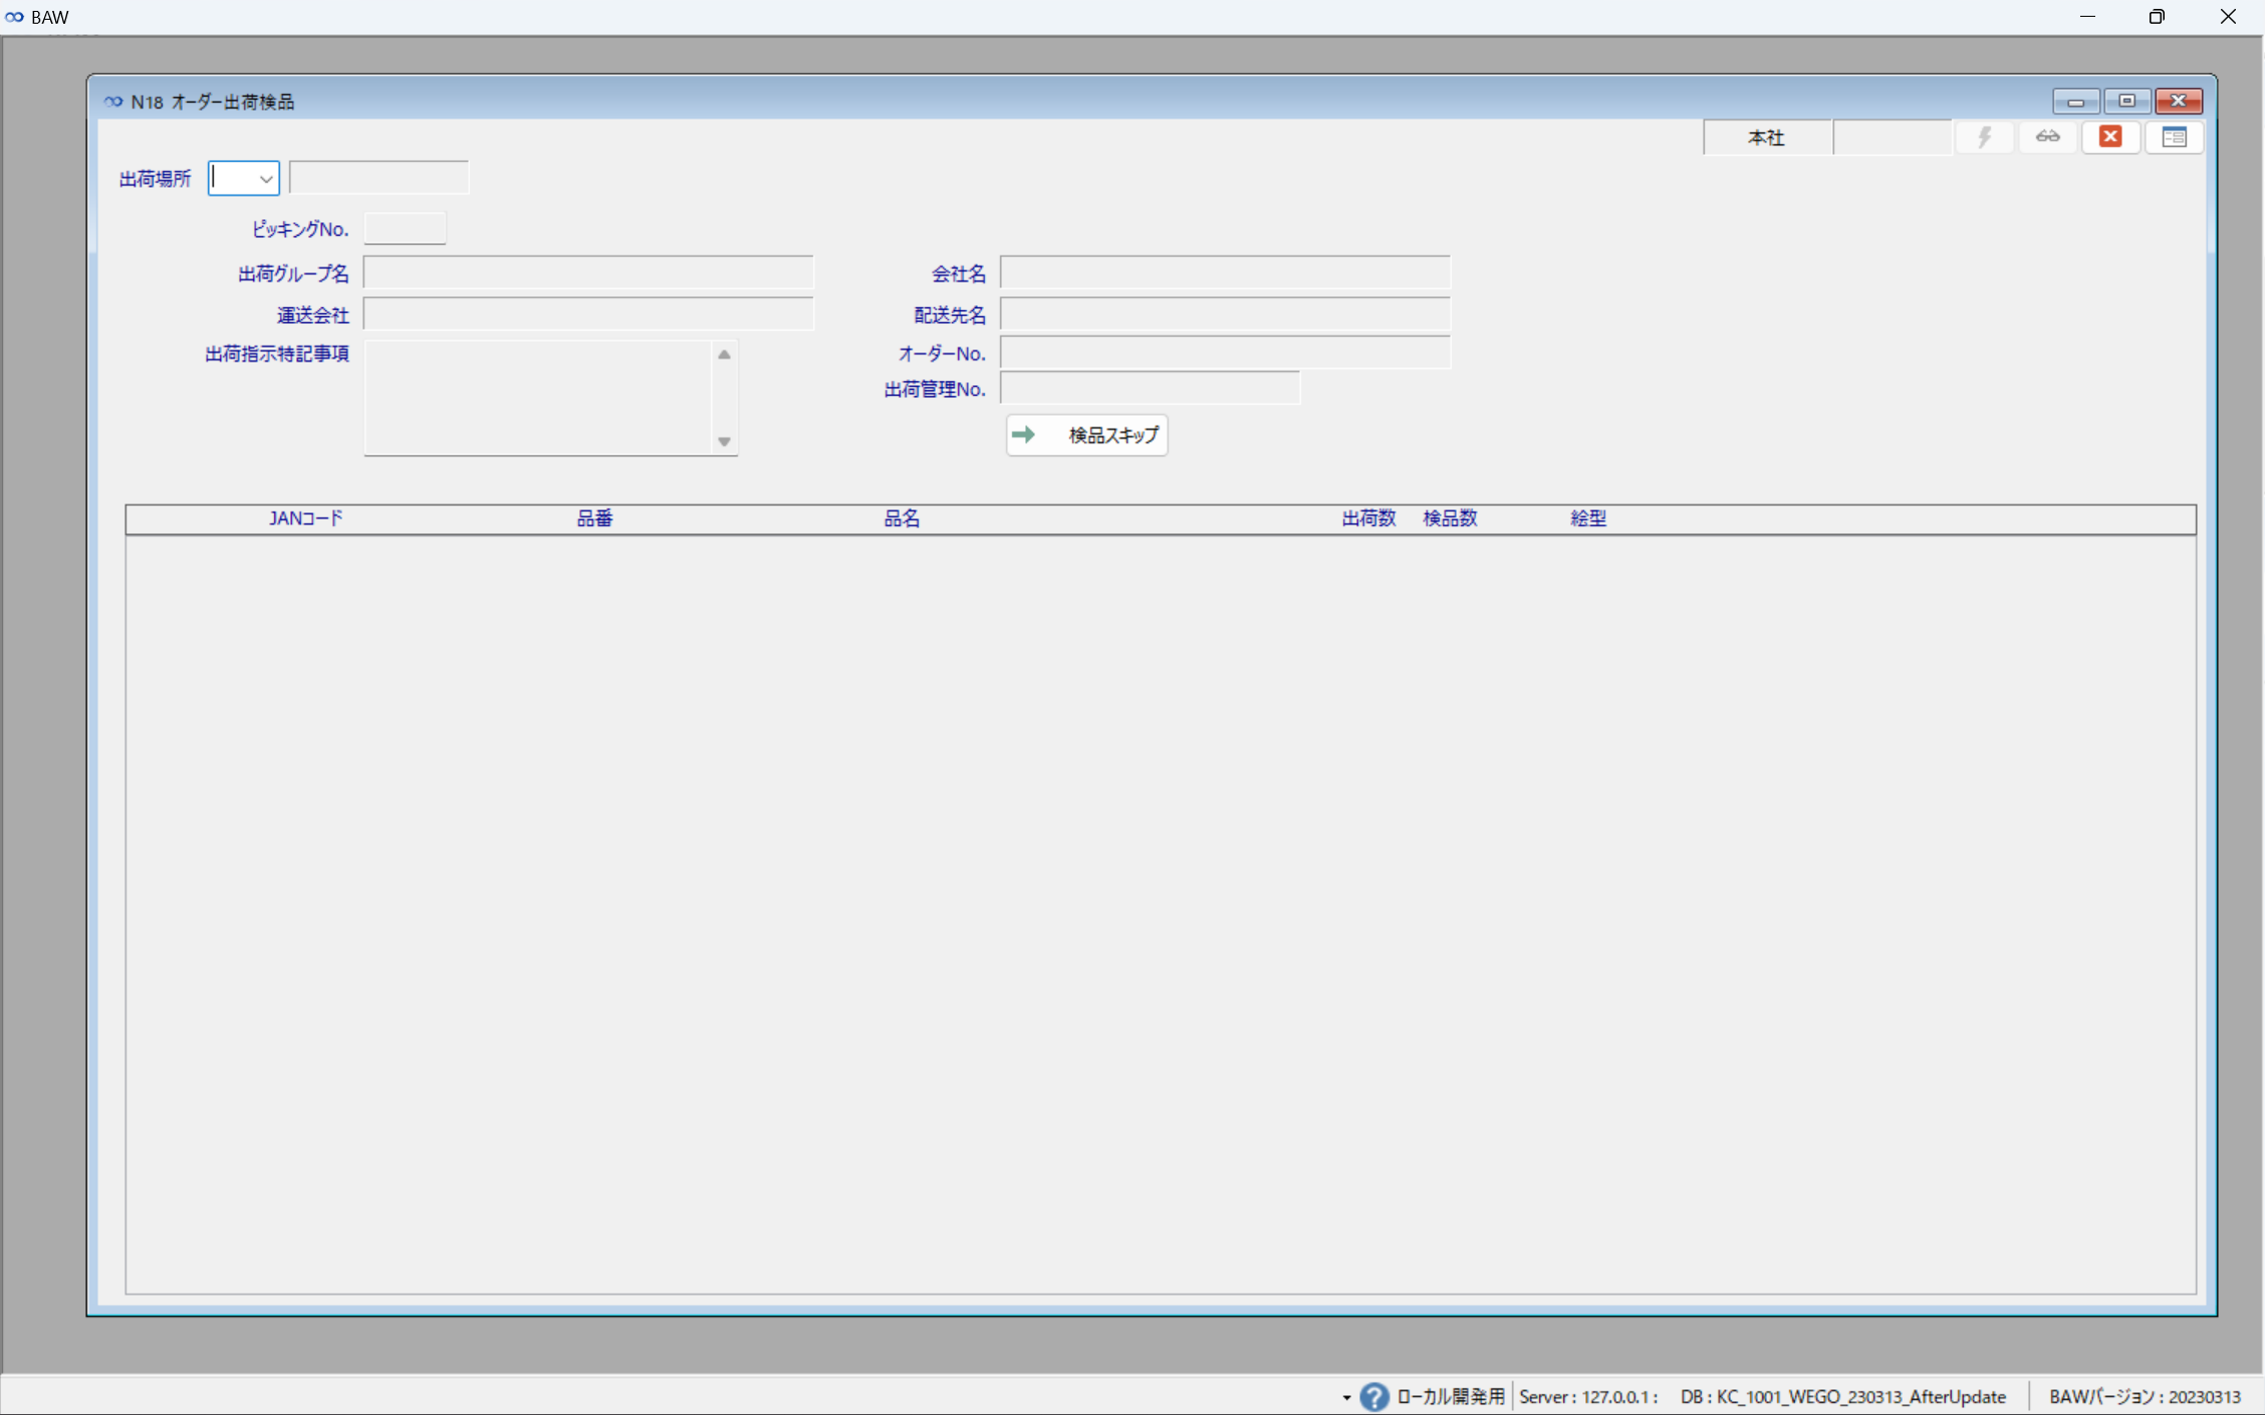
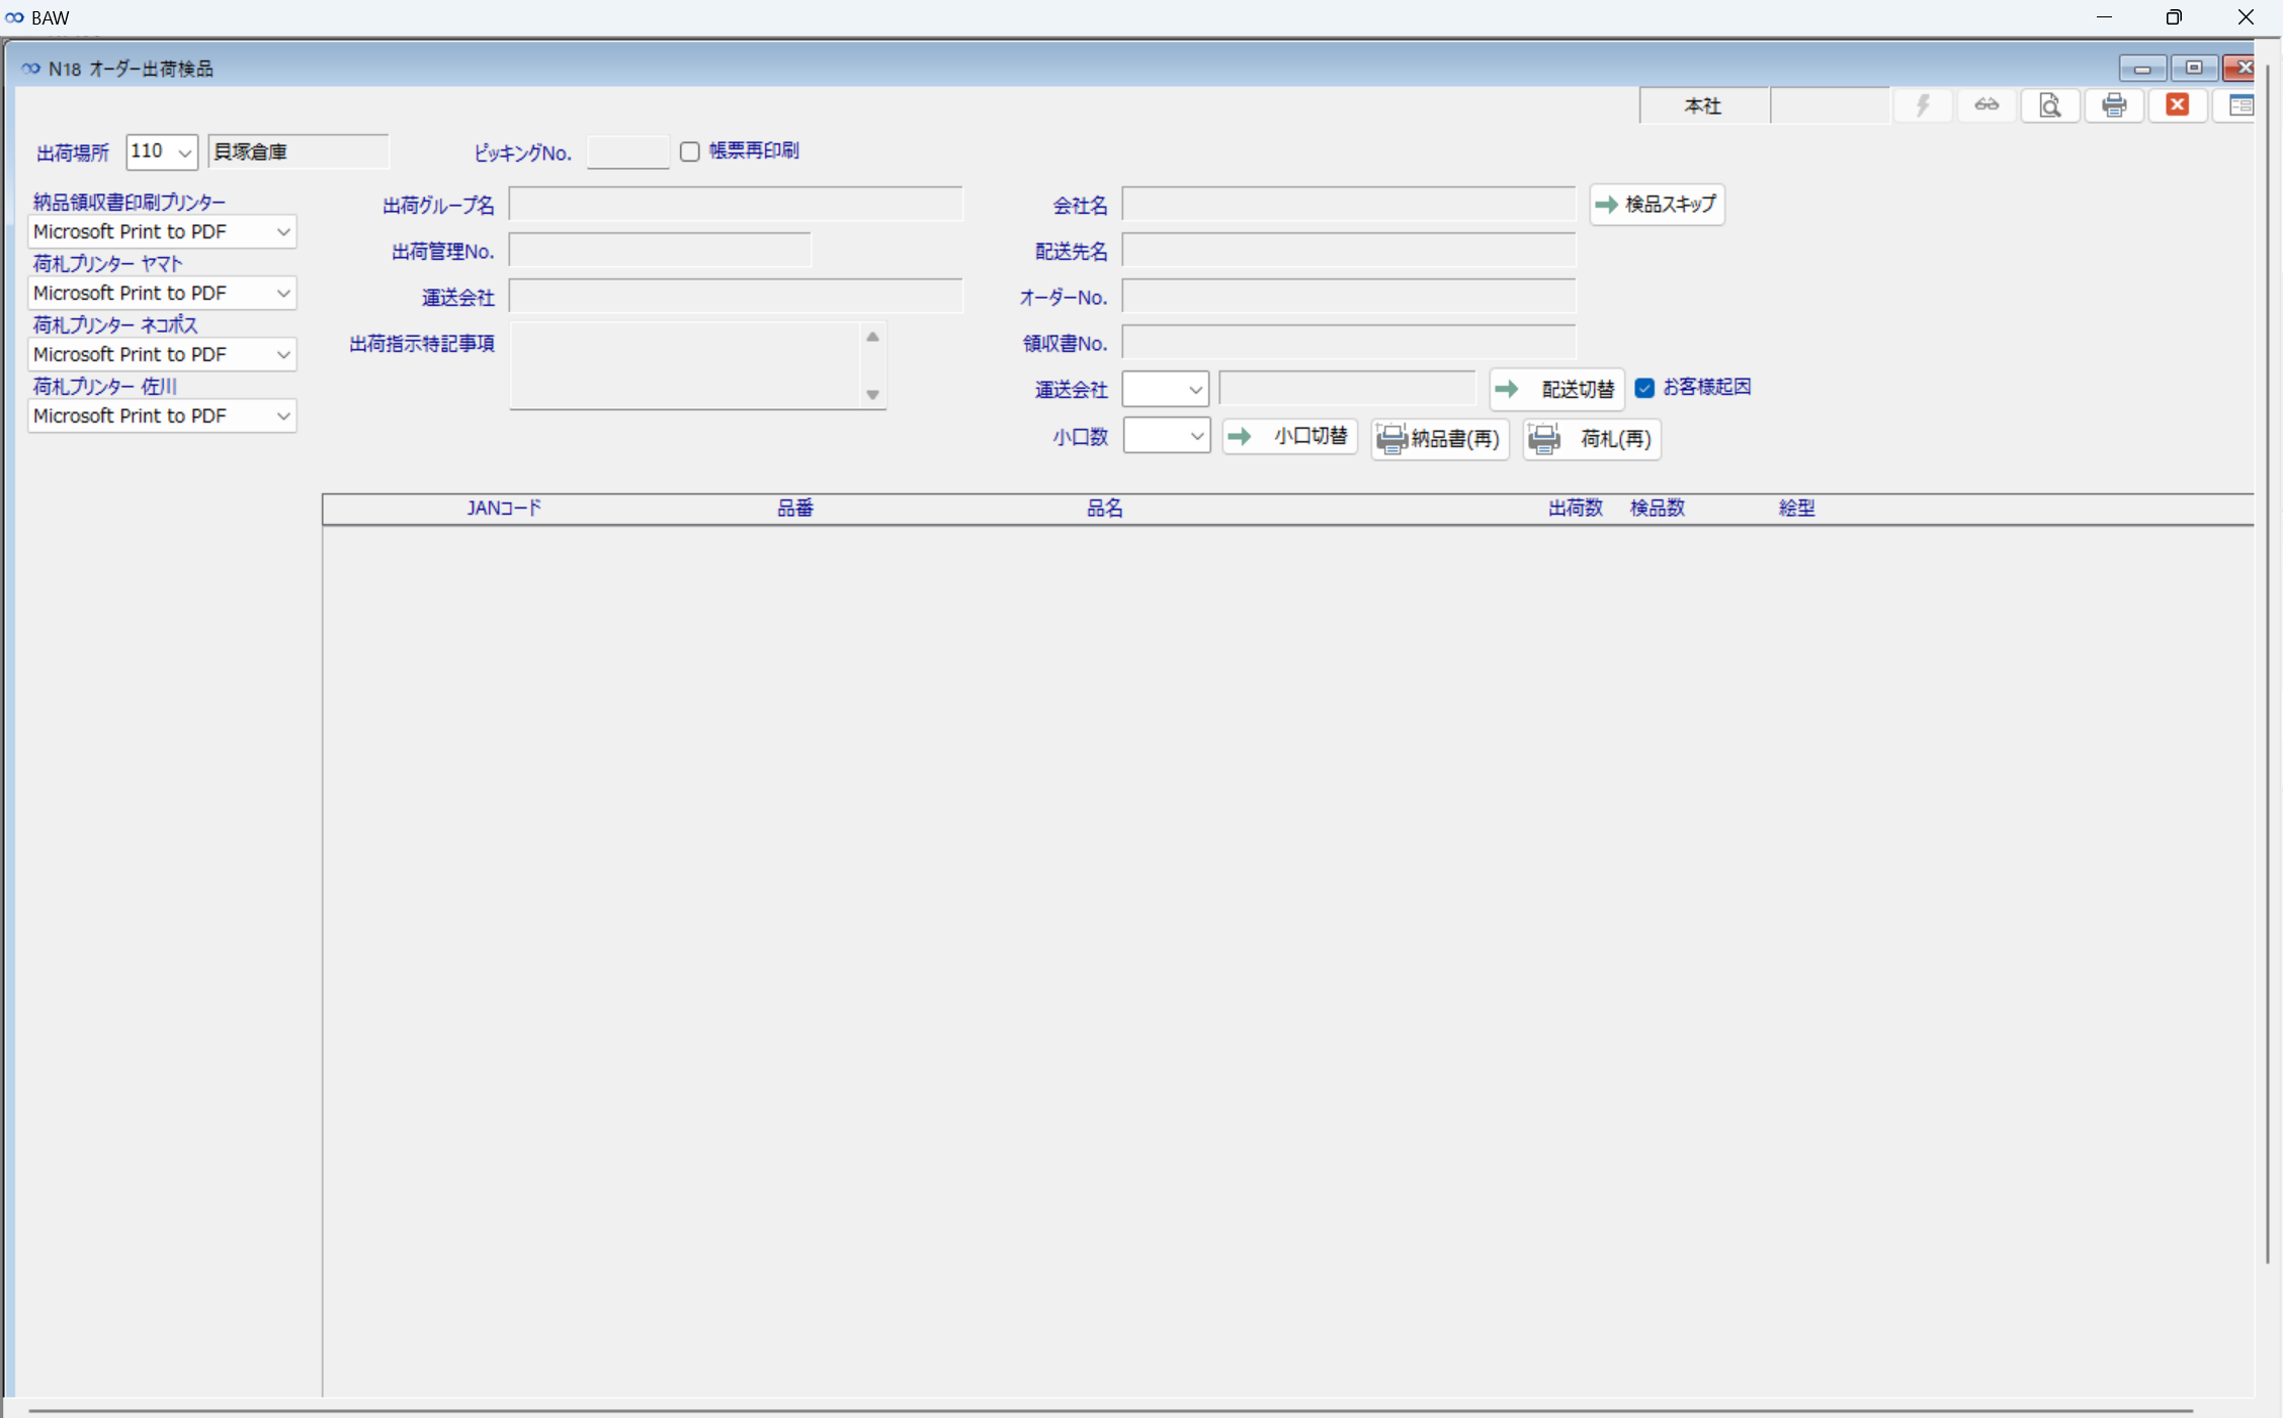
検品マニュアル更新

Changed region(s): [[0.0, 0.0, 1.0, 1.0], [0.7108, 0.1244, 0.7417, 0.1555]]

diff --git a/Ship.md b/Ship.md
@@ -36,7 +36,7 @@
        6.  **続いてグループ作成する場合、作成済みの行のチェックボックスは付けたままで問題ございません。**
 
 ## N15 出荷帳票作成
-1. サイドメニューの出荷(N)から出荷帳票作成(N15)を開きます。![N15メニュー](/img/Ship/N15_Menu.png)
+1. サイドメニューの出荷(N)から出荷帳票作成先出し(N15)を開きます。![N15メニュー](/img/Ship/N15_Menu.png)
 2. 作成した出荷グループの帳票を作成する一覧が表示されます。![N15](/img/Ship/N15_Default.png)
 3. 作成する帳票を右枠からチェックボックスで選択し、[帳票作成]ボタンをクリックすると印刷対象(左枠)に移動します。
    1. Before![N15右枠から帳票作成対象へ](/img/Ship/N15_DelivSip_to_leftUI.png)
@@ -56,7 +56,7 @@
 
 ## N17 トータル出荷検品
 1. サイドメニューの出荷(N)からトータル出荷検品(N17)を開きます。![N17メニュー](/img/Ship/N17_Menu.png)
-2. トータル出荷検品の画面が表示されます。![N17](/img/Ship/N17_Default.png)
+2. トータル出荷検品の画面が表示されます。
 3. トータルピッキングリストの左上のバーコードを読み取ると、赤枠に該当オーダー一覧、緑枠に商品明細一覧が表示されます。![N17ピッキングリストスキャン](/img/Ship/N17_DelivScan.png)
 4. 検品したい商品のバーコードをスキャンすると、[検品数]の列の数字がカウントアップされます。![N17商品スキャン](/img/Ship/N17_ItemScan.png)
    1. 検品数をオーバーしてスキャンした場合、数量オーバーのポップアップが表示されます。![N17数量オーバー](/img/Ship/N17_ItemScan_OverQty.png)
@@ -67,14 +67,17 @@
 
 ## N18 オーダー出荷検品
 1. サイドメニューの出荷(N)からオーダー出荷検品(N18)を開きます。![N18メニュー](/img/Ship/N18_Menu.png)
-2. オーダー出荷検品の画面が表示されます。![N18](/img/Ship/N18_Default.png)
+2. オーダー出荷検品の画面が表示されます。バーコードの読み取り前にプリンターを適宜選択してください。(印刷しない場合はMicrosoft Print to PDFで問題ございません)![N18](/img/Ship/N18_Default.png)
 3. 出荷指示書単票の左上のバーコードを読み取ると、赤枠に該当オーダー内容、緑枠に商品明細一覧が表示されます。![N18ピッキングリストスキャン](/img/Ship/N18_DelivScan.png)
 4. 検品したい商品のバーコードをスキャンすると、[検品数]の列の数字がカウントアップされます。![N18商品スキャン](/img/Ship/N18_ItemScan.png)
    1. 検品数をオーバーしてスキャンした場合、数量オーバーのポップアップが表示されます。![N18数量オーバー](/img/Ship/N18_ItemScan_OverQty.png)
    2. 違う商品をスキャンした場合、商品が違う旨のポップアップが表示されます。![N18商品相違](/img/Ship/N18_ItemScan_DifferentItem.png)
-   3. 商品区分がチラシの明細は黄色で表示されます。JANコードがない場合は行左端のボタンをクリックする事で検品数をカウントアップできます。検品完了すると同様に水色で表示されます。![N18チラシ検品](/img/Ship/N18_LeafletScan.png)
+   3. 商品区分がチラシの明細は黄色で表示されます。JANコードがない場合は行左端のボタンをクリックするか、チラシQRコードをスキャンする事で検品数をカウントアップできます。検品完了すると同様に水色で表示されます。![N18チラシ検品](/img/Ship/N18_LeafletScan.png)
+      1. チラシQRコードはこちら![チラシQRコード](/img/Ship/flyer_QRCode.png)
 5. 商品の検品が完了すると該当行が水色で表示されます。![N18商品スキャン完了](/img/Ship/N18_ItemScan_Done.png)
-6. 全ての商品の検品が完了すると完了した旨のポップアップが表示されます。![N18オーダー明細検品完了](/img/Ship/N18_OrderScan_Done.png)
+6. 全ての商品の検品が完了すると完了した旨の文言が表示されます。検品確定QRコードをスキャンすると検品操作が完了します。
+   1. 検品確定QRコードはこちら![検品確定QRコード](/img/Ship/ScanDone_QRCode.png)
+7. 検品を続ける場合は次の出荷指示書単票のバーコードを読み取ってください。![N18オーダー明細検品完了](/img/Ship/N18_OrderScan_Done.png)
 
 ## W13 荷札データ出力
 1. サイドメニューの倉庫(W)から荷札データ出力(W13)を開きます。![W13メニュー](/img/Ship/W13_Menu.png)
